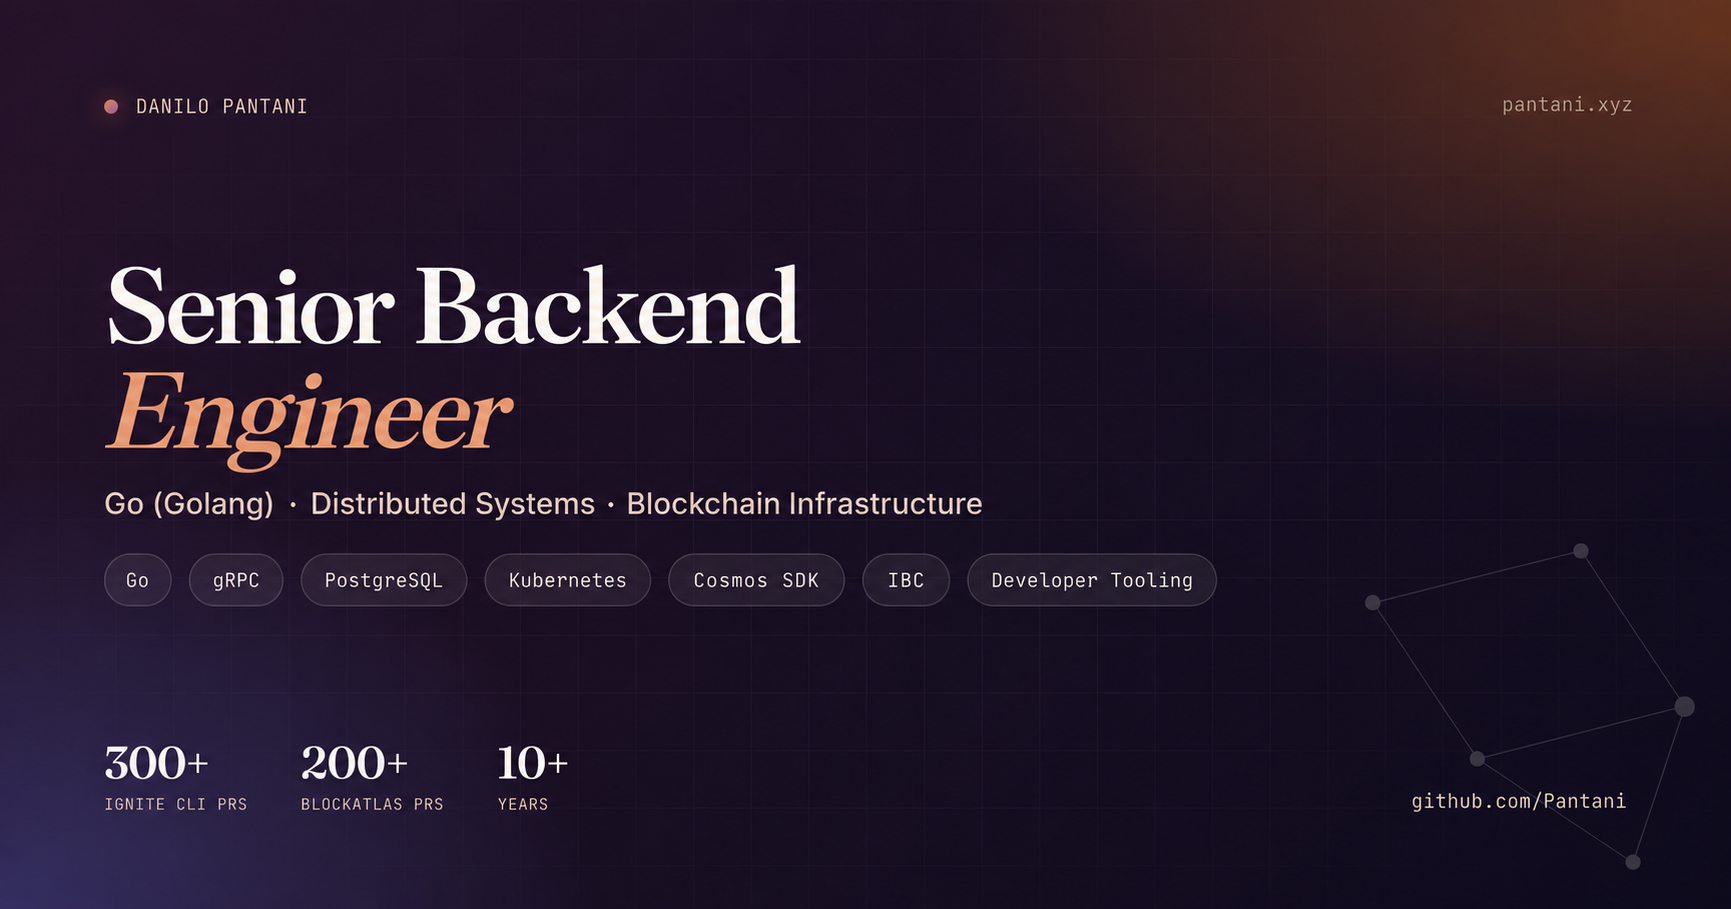
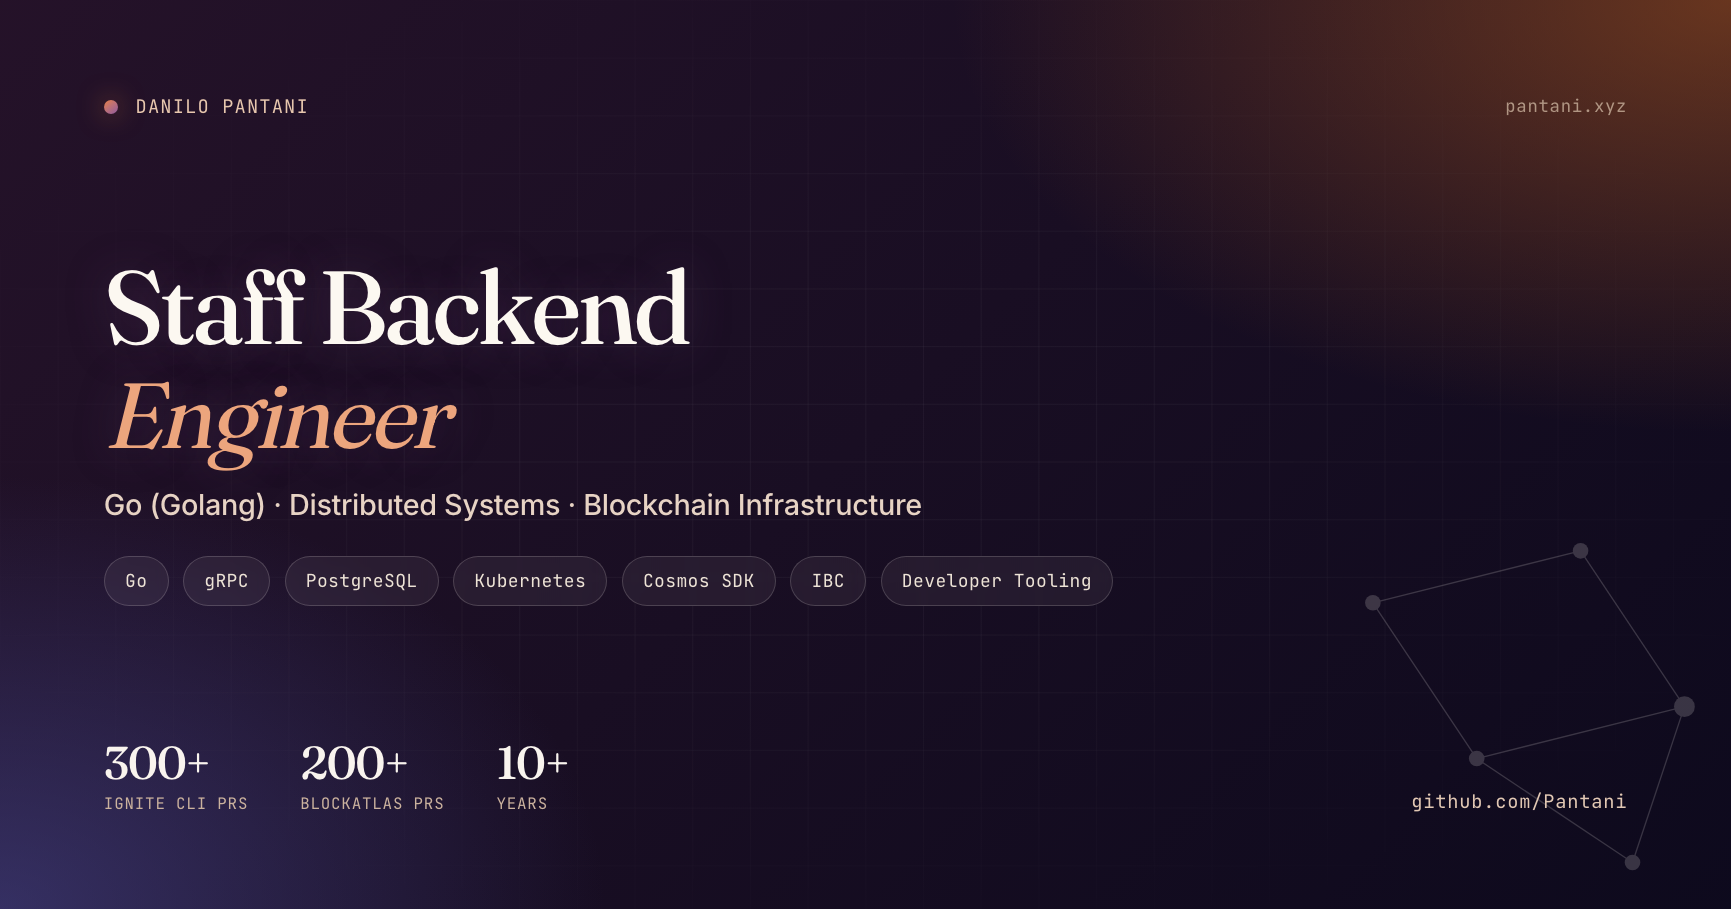
Regenerate social card and LinkedIn cover with Staff title

diff --git a/index.html b/index.html
@@ -22,8 +22,8 @@
   <meta property="og:locale:alternate" content="pt_BR">
   <meta property="profile:first_name" content="Danilo">
   <meta property="profile:last_name" content="Pantani">
-  <meta property="og:image" content="https://pantani.xyz/og-image.png?v=20261007">
-  <meta property="og:image:secure_url" content="https://pantani.xyz/og-image.png?v=20261007">
+  <meta property="og:image" content="https://pantani.xyz/og-image.png?v=20261110">
+  <meta property="og:image:secure_url" content="https://pantani.xyz/og-image.png?v=20261110">
   <meta property="og:image:type" content="image/png">
   <meta property="og:image:width" content="1731">
   <meta property="og:image:height" content="909">
@@ -34,7 +34,7 @@
   <meta name="twitter:card" content="summary_large_image">
   <meta name="twitter:title" content="Danilo Pantani | Staff Go Backend Engineer">
   <meta name="twitter:description" content="Staff Go backend engineer with 10+ years in software engineering. Distributed systems and developer tooling. Based in Brazil, seeking international remote roles.">
-  <meta name="twitter:image" content="https://pantani.xyz/og-image.png?v=20261007">
+  <meta name="twitter:image" content="https://pantani.xyz/og-image.png?v=20261110">
   <meta name="twitter:image:alt" content="Danilo Pantani — Staff Backend Engineer — Go, Distributed Systems and Blockchain Infrastructure">
 
   <!--
@@ -55,7 +55,7 @@
     "givenName": "Danilo",
     "familyName": "Pantani",
     "url": "https://pantani.xyz/",
-    "image": "https://pantani.xyz/og-image.png?v=20261007",
+    "image": "https://pantani.xyz/og-image.png?v=20261110",
     "email": "mailto:danpantani@gmail.com",
     "jobTitle": "Staff Backend Engineer",
     "description": "Staff Go backend engineer with 10+ years in software engineering. Distributed systems and developer tooling. Based in Brazil, seeking international remote roles.",
@@ -103,7 +103,7 @@
           "@type": "Person",
           "name": "Danilo Pantani"
         },
-        "image": "https://pantani.xyz/og-image.png?v=20261007",
+        "image": "https://pantani.xyz/og-image.png?v=20261110",
         "description": "Workshop on the Ignite stack — its latest developments and roadmap — hosted as an Ignite core developer."
       },
       {
@@ -130,7 +130,7 @@
           "@type": "Person",
           "name": "Danilo Pantani"
         },
-        "image": "https://pantani.xyz/og-image.png?v=20261007",
+        "image": "https://pantani.xyz/og-image.png?v=20261110",
         "description": "Talk on building Cosmos SDK blockchains and developer tooling with Ignite (Web3Family)."
       }
     ],
